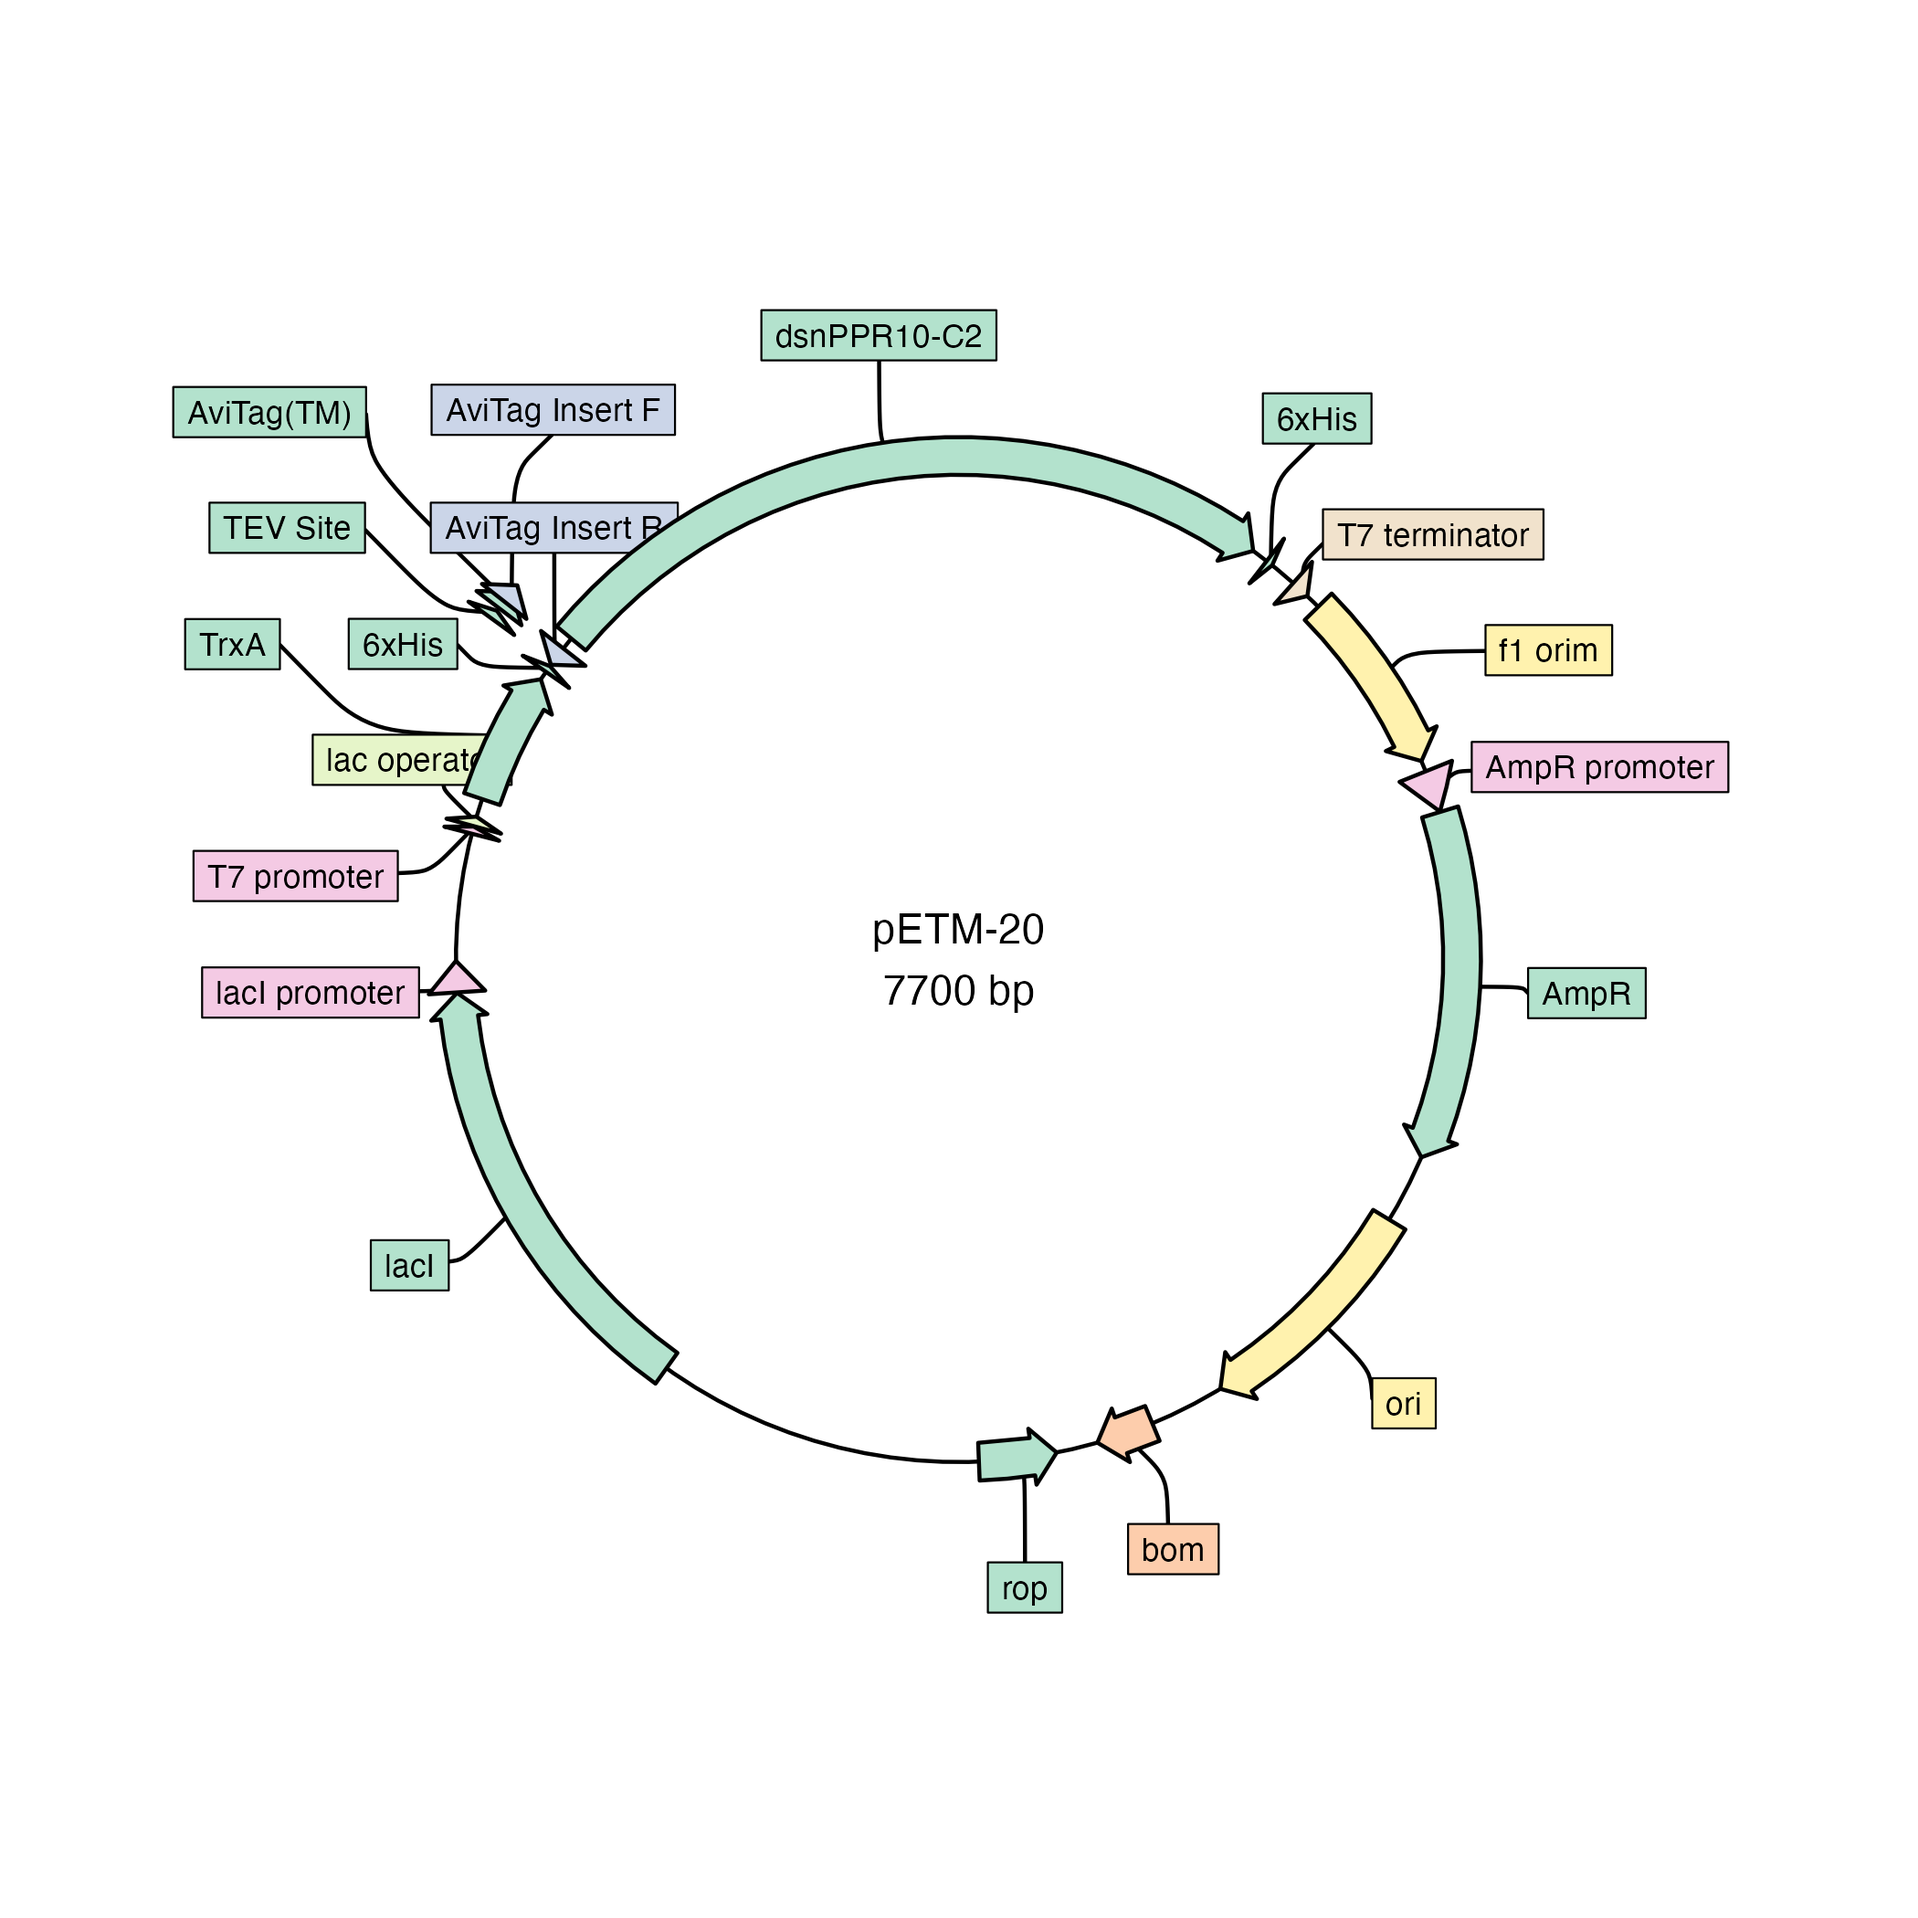
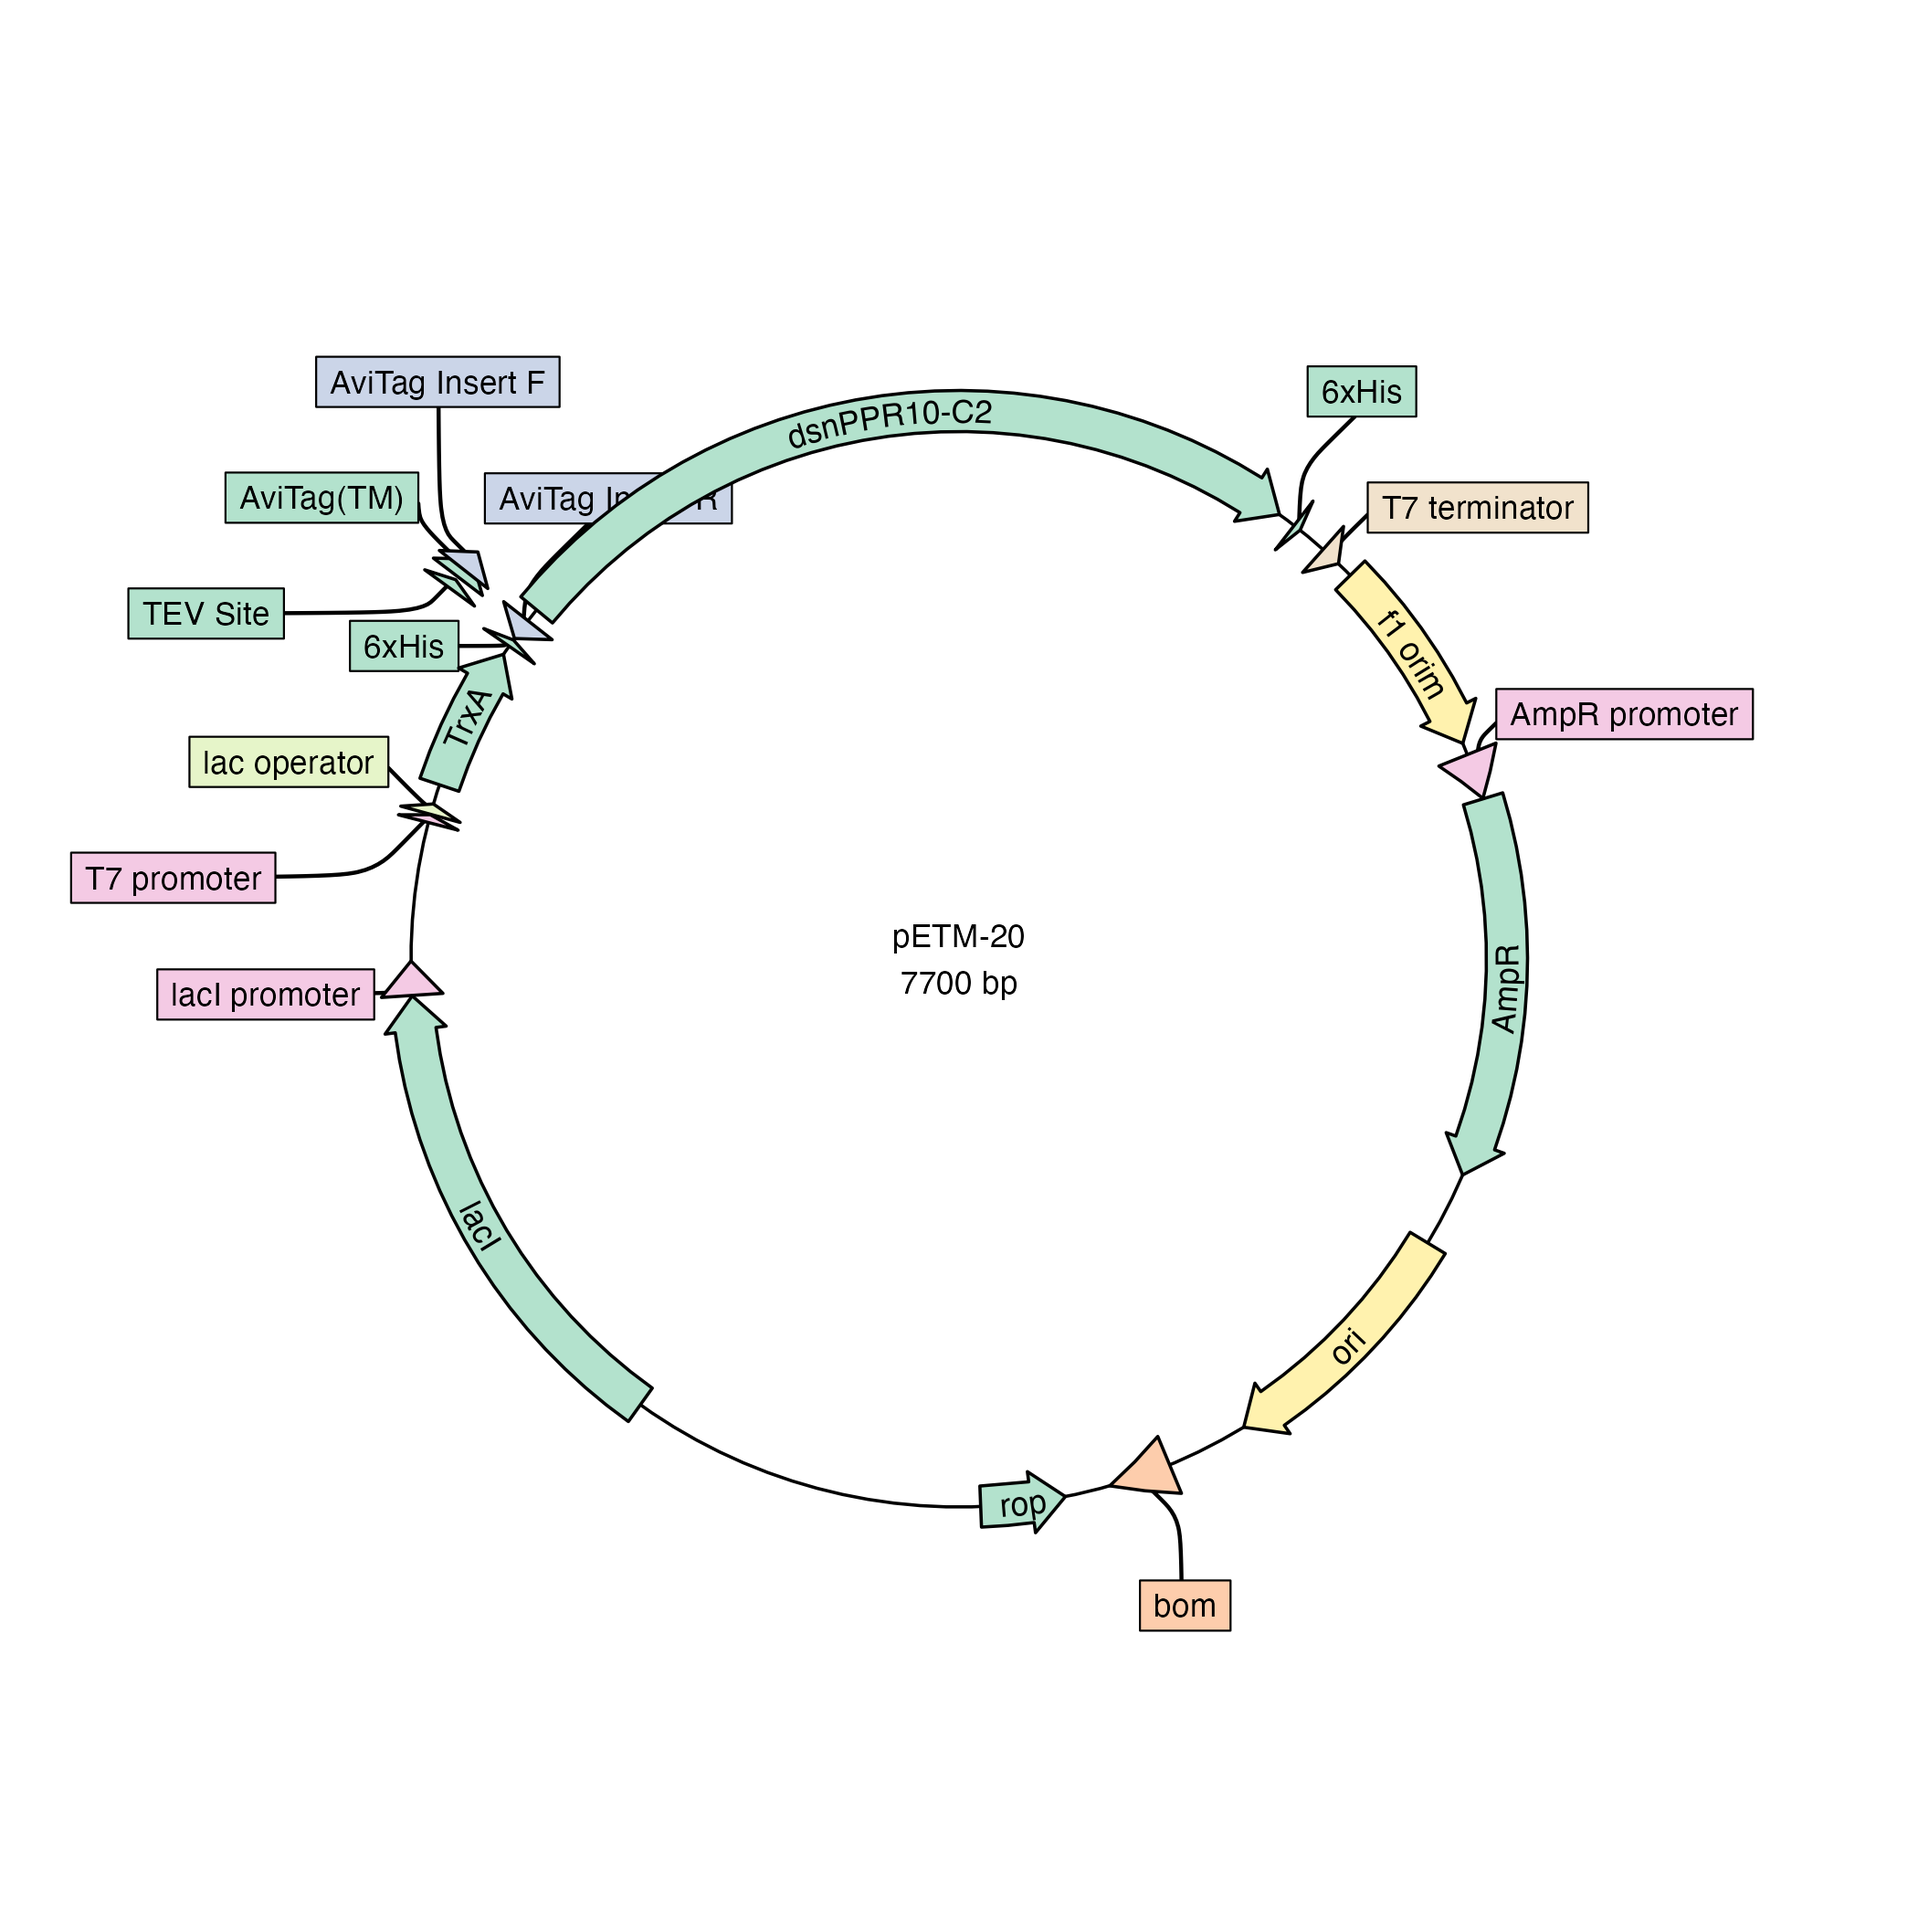
update to labels to work properly with offset

Changed region(s): [[0.031, 0.1548, 0.9286, 0.8667], [0.4643, 0.4643, 0.5571, 0.5262], [0.4024, 0.7429, 0.4333, 0.7738]]

diff --git a/README.md b/README.md
@@ -72,7 +72,7 @@ dat[dat$type == "CDS", ] |>
 
 It’s not currently intended for linear display, but it can be used as
 such. I recommend checking out the
-[`gggenese`](https://wilkox.org/gggenes/) package.
+[`gggenes`](https://wilkox.org/gggenes/) package.
 
 ``` r
 dat[dat$type == "CDS", ] |> 
